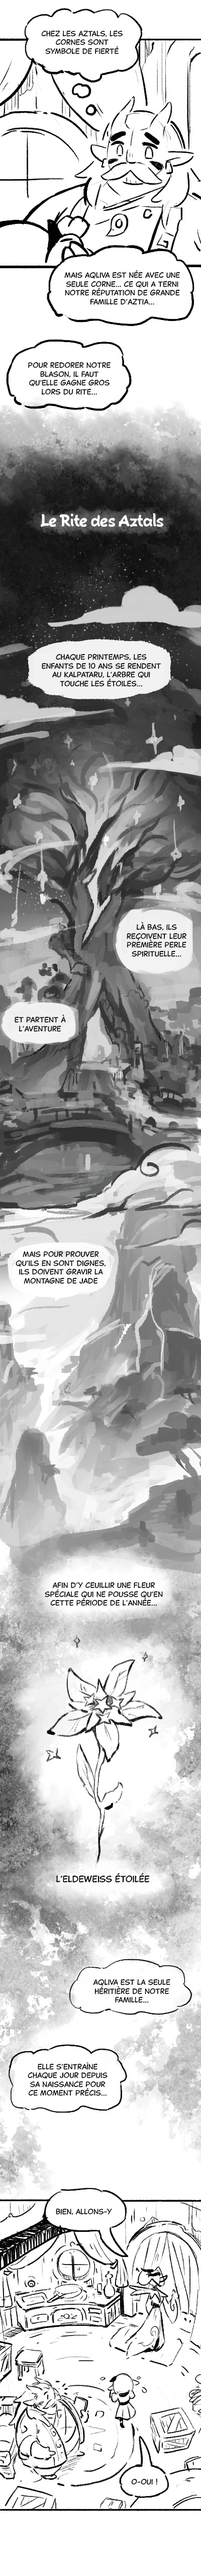
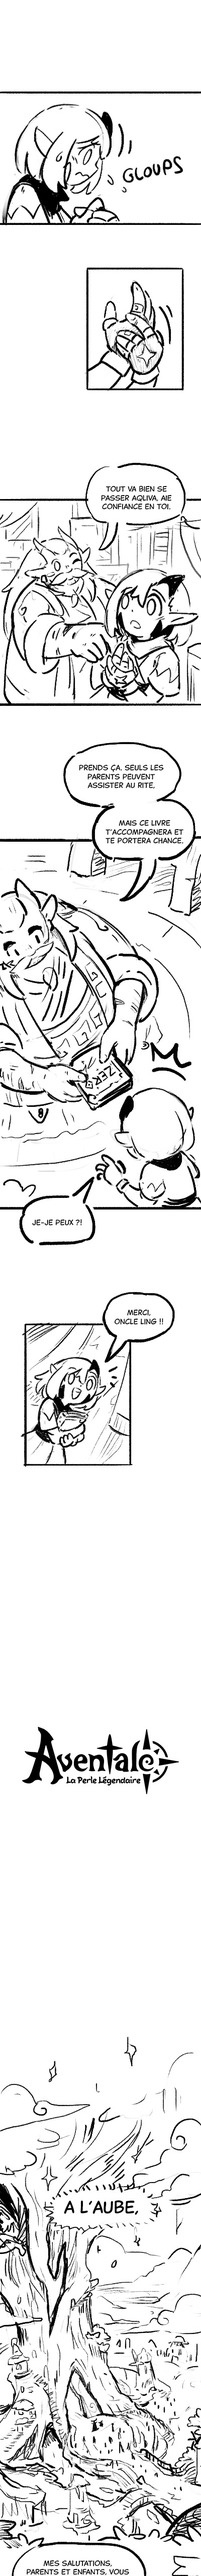
Modifi chapitre 1 et 2

diff --git a/Prologue - PARTIE 1.html b/Prologue - PARTIE 1.html
@@ -47,17 +47,24 @@
 
     <div class="navigation">
         <button id="prev-button" disabled>Précédent</button>
-        <button id="next-button" disabled>Suivant</button>
+        <button id="next-button">Suivant</button> 
     </div>
 
     <script>
         const imageContainer = document.getElementById('image-container');
 
-        for (let i = 1; i <= 17; i++) {
+        for (let i = 1; i <= 16; i++) {
             const img = document.createElement('img');
             img.src = `chap1/Plan de travail ${i}.jpg`;
             img.alt = `Webtoon Image ${i}`;
             imageContainer.appendChild(img);
+
+            if (i === 3) {
+                const img3Copy = document.createElement('img');
+                img3Copy.src = 'chap1/Plan de travail 3 copie.jpg';
+                img3Copy.alt = 'Webtoon Image 3 copie';
+                imageContainer.appendChild(img3Copy);
+            }
         }
 
         // Gestion de la navigation

diff --git a/Prologue - PARTIE 2.html b/Prologue - PARTIE 2.html
@@ -53,7 +53,7 @@
     <script>
         const imageContainer = document.getElementById('image-container');
 
-        for (let i = 18; i <= 24; i++) {
+        for (let i = 17; i <= 23; i++) {
             const img = document.createElement('img');
             img.src = `chap2/Plan de travail ${i}.jpg`;
             img.alt = `Webtoon Image ${i}`;

diff --git a/Prologue - PARTIE 3.html b/Prologue - PARTIE 3.html
@@ -53,7 +53,7 @@
     <script>
         const imageContainer = document.getElementById('image-container');
 
-        for (let i = 25; i <= 37; i++) {
+        for (let i = 24; i <= 36; i++) {
             const img = document.createElement('img');
             img.src = `chap3/Plan de travail ${i}.jpg`;
             img.alt = `Webtoon Image ${i}`;
